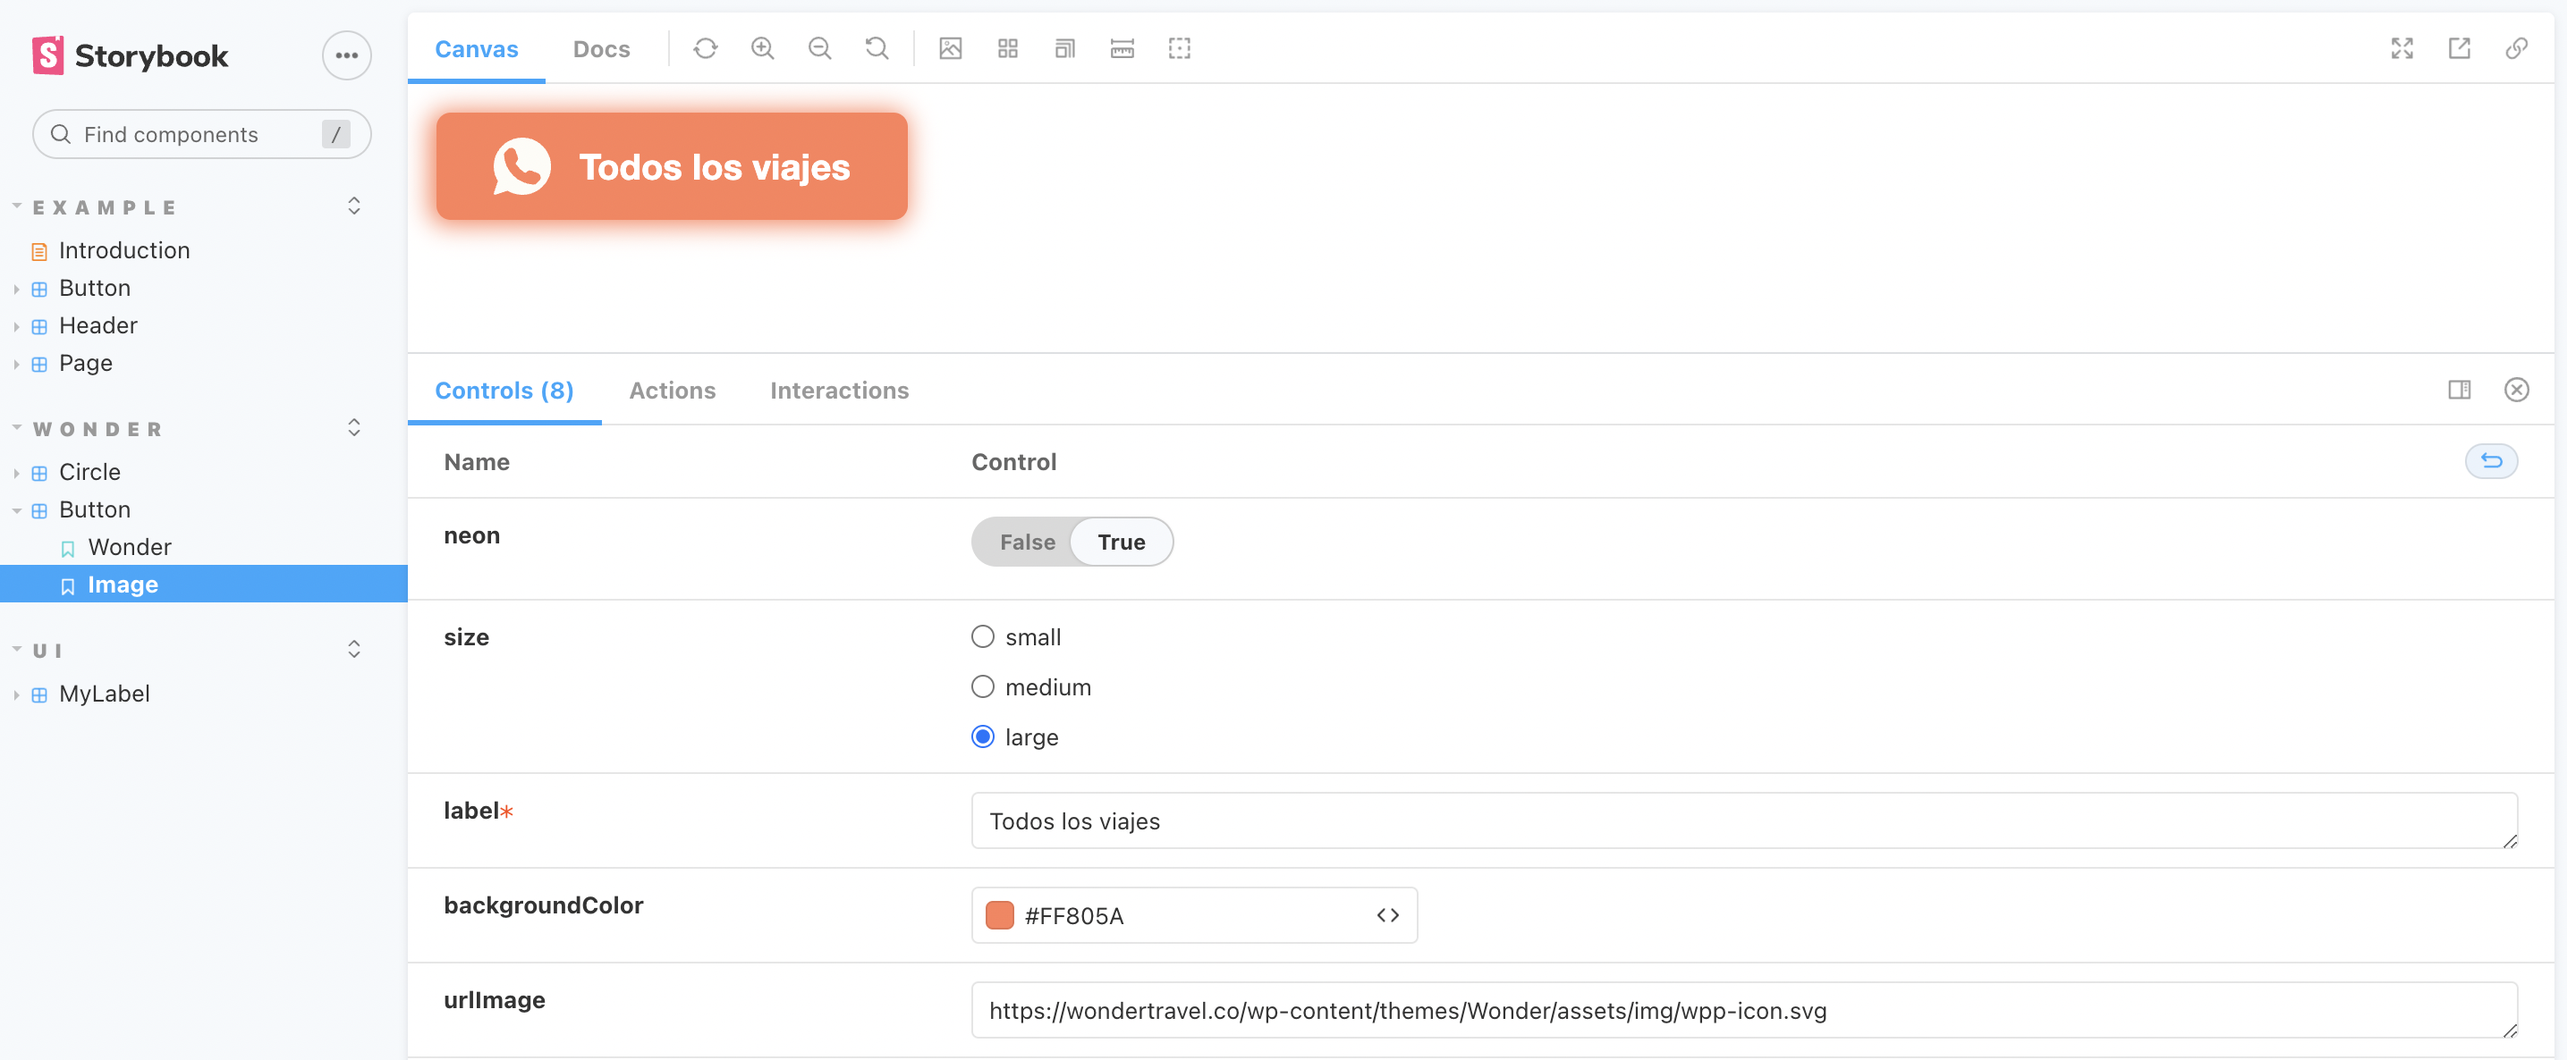
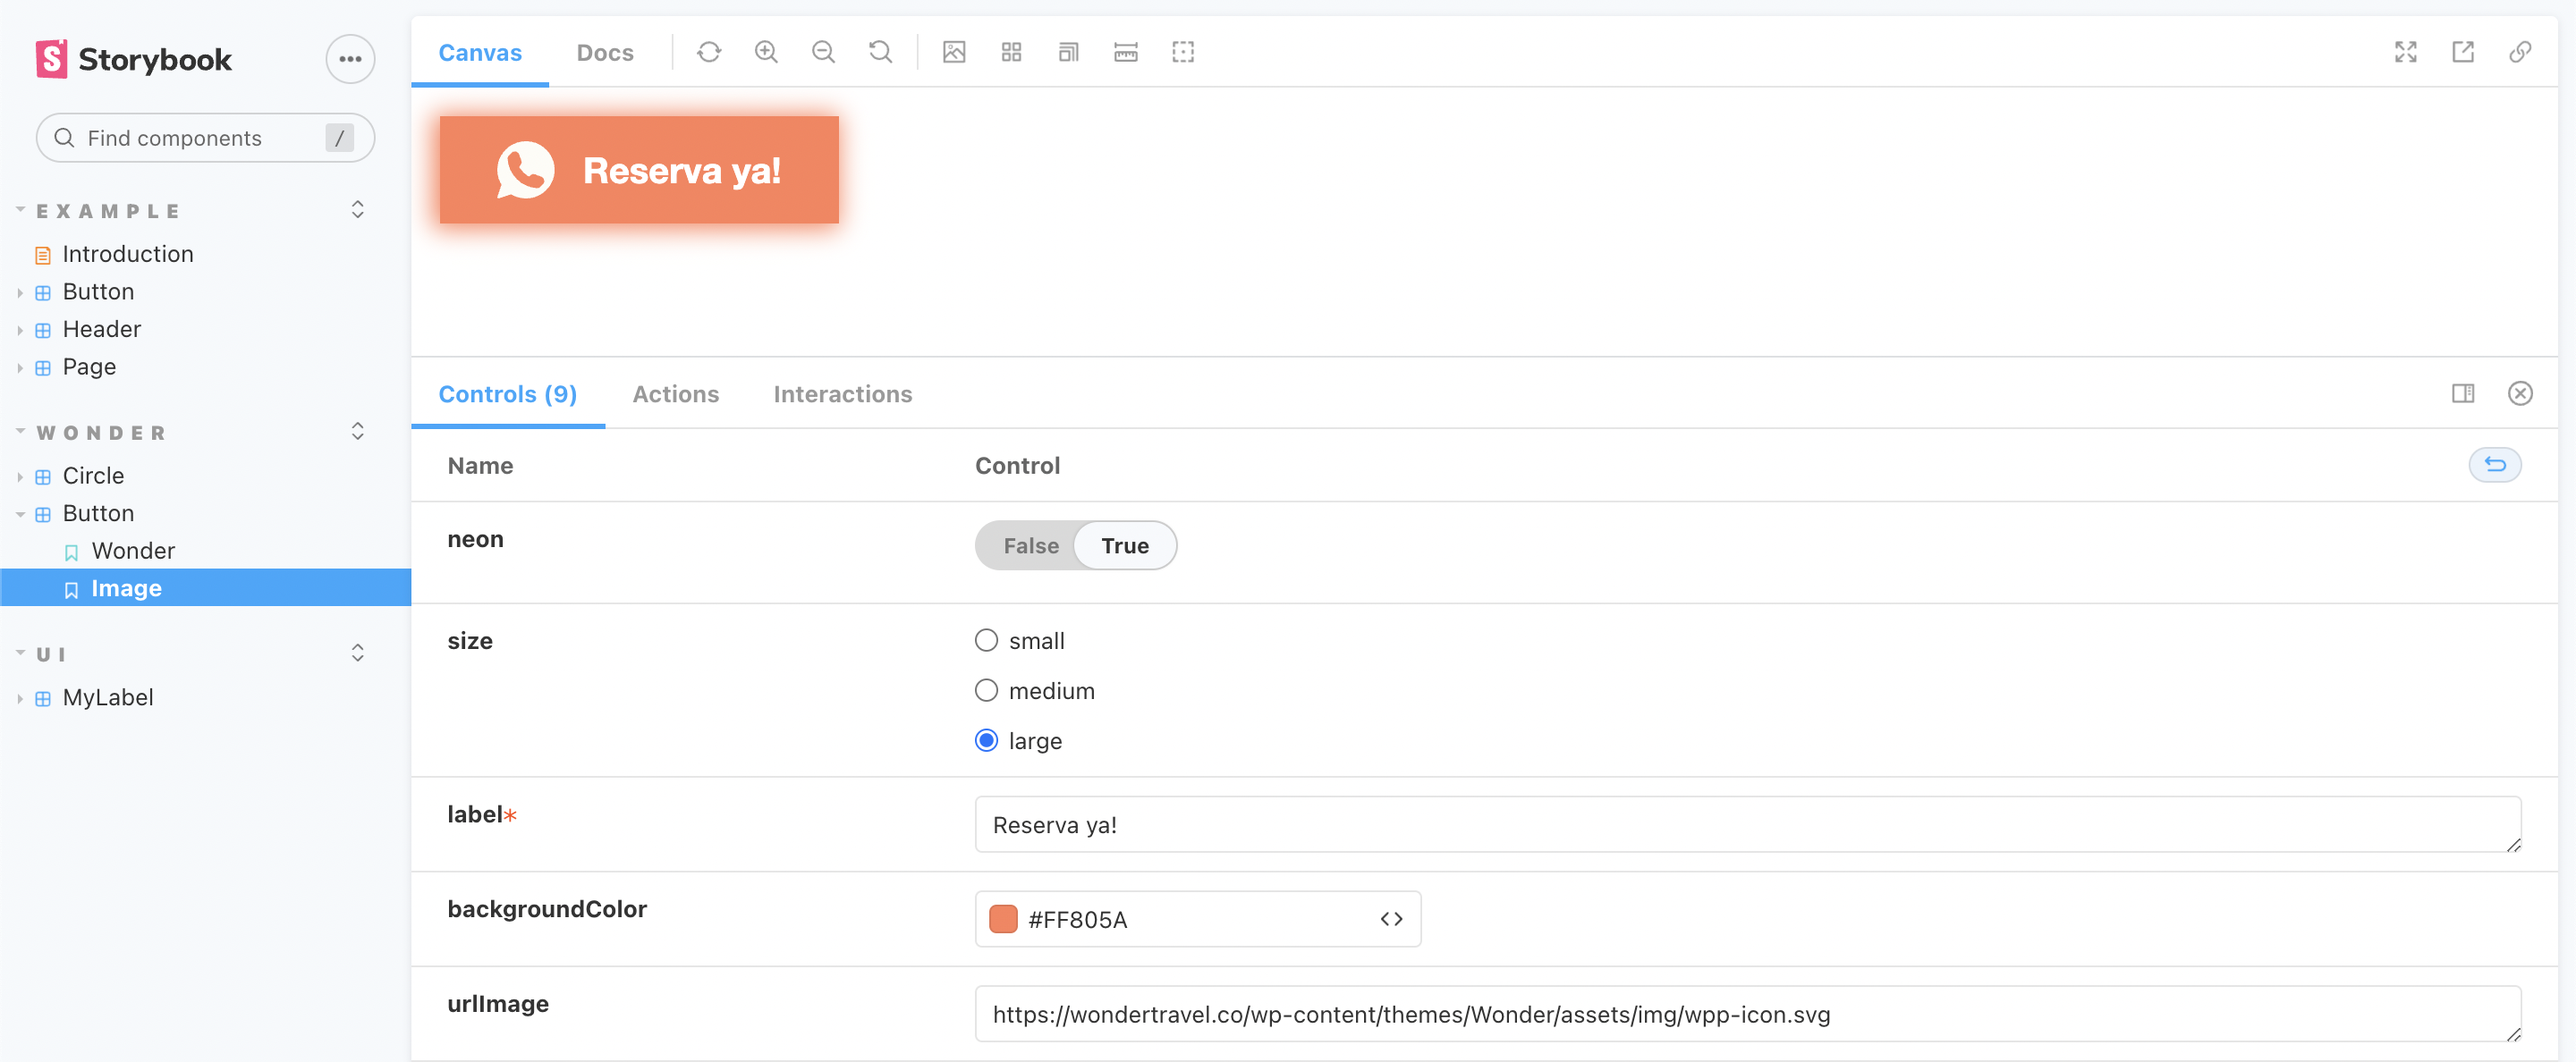
readme storybook

diff --git a/readme.md b/readme.md
@@ -51,23 +51,30 @@ yarn coverage
 
 Para trabajar sobre componentes reutilizables se usaron story books
 
-### Link : https://636fd55712827b1c13e9bde4-ixfbwejlpc.chromatic.com/?path=/story/wonder-circle--wonder-image
+### Link : https://636fd55712827b1c13e9bde4-zdtaabqcsu.chromatic.com/?path=/story/wonder-button--image
 
 Los componentes utilizados en este proyecto estan en la seccion WONDER, para personalizarlos usar la sección canvas y cambiar las propiedades de control, por ejemplo:
 
 Para crear este botón: 
+
 ![Image text](public/images/readme/storybooks/reservaWonder.png)
 
 Ve a la sección wonder, componente Button y cambia las propiedades de control por:
 
-- urlImage: https://wondertravel.co/wp-content/themes/Wonder/assets/img/wpp-icon.svg
+- neon: true
+
+- size: large
 
 - label: Reserva ya!
 
 - backgroundColor: #FF805A
 
-- neon: true
+- urlImage: https://wondertravel.co/wp-content/themes/Wonder/assets/img/wpp-icon.svg
+
+- imageSize: small
 
 - fontColor: #ffffff
+
+- border: false
 
 ![Image text](public/images/readme/storybooks/storybookButton.png)
